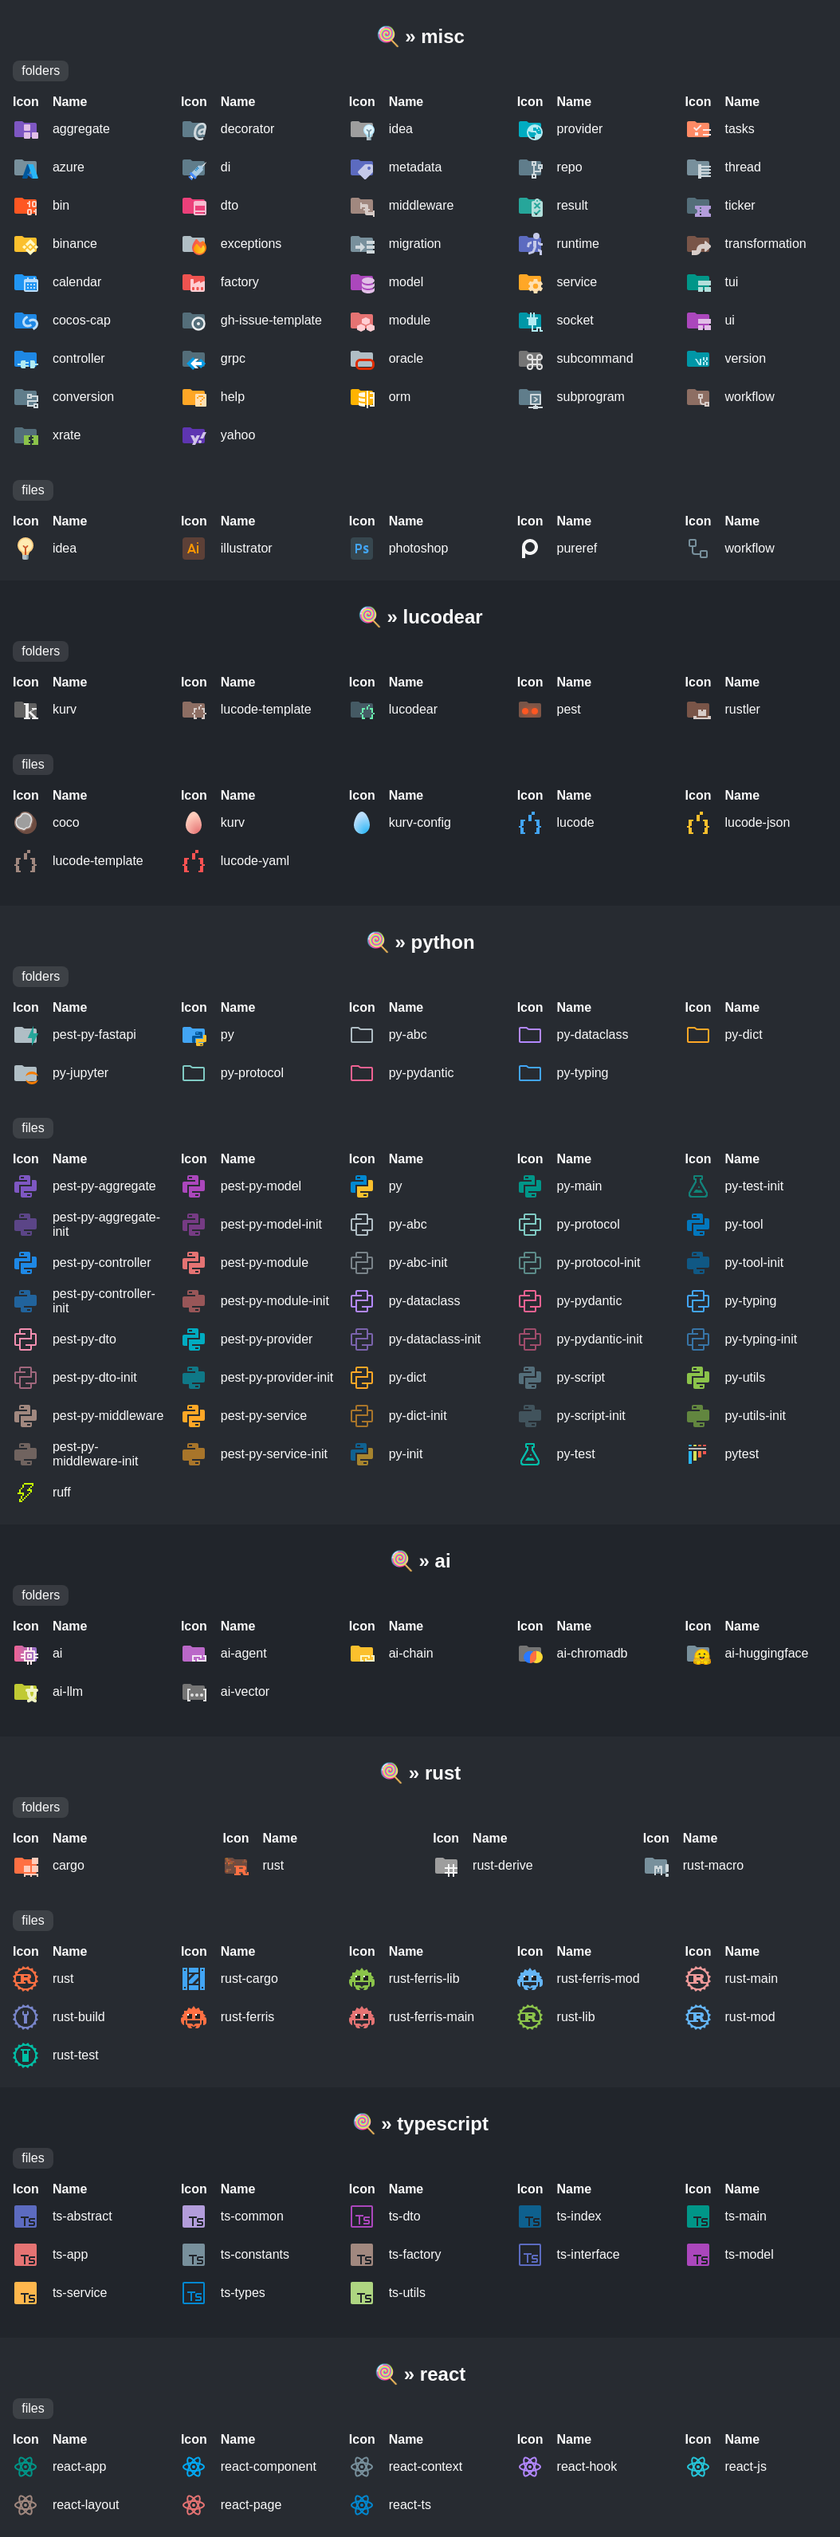
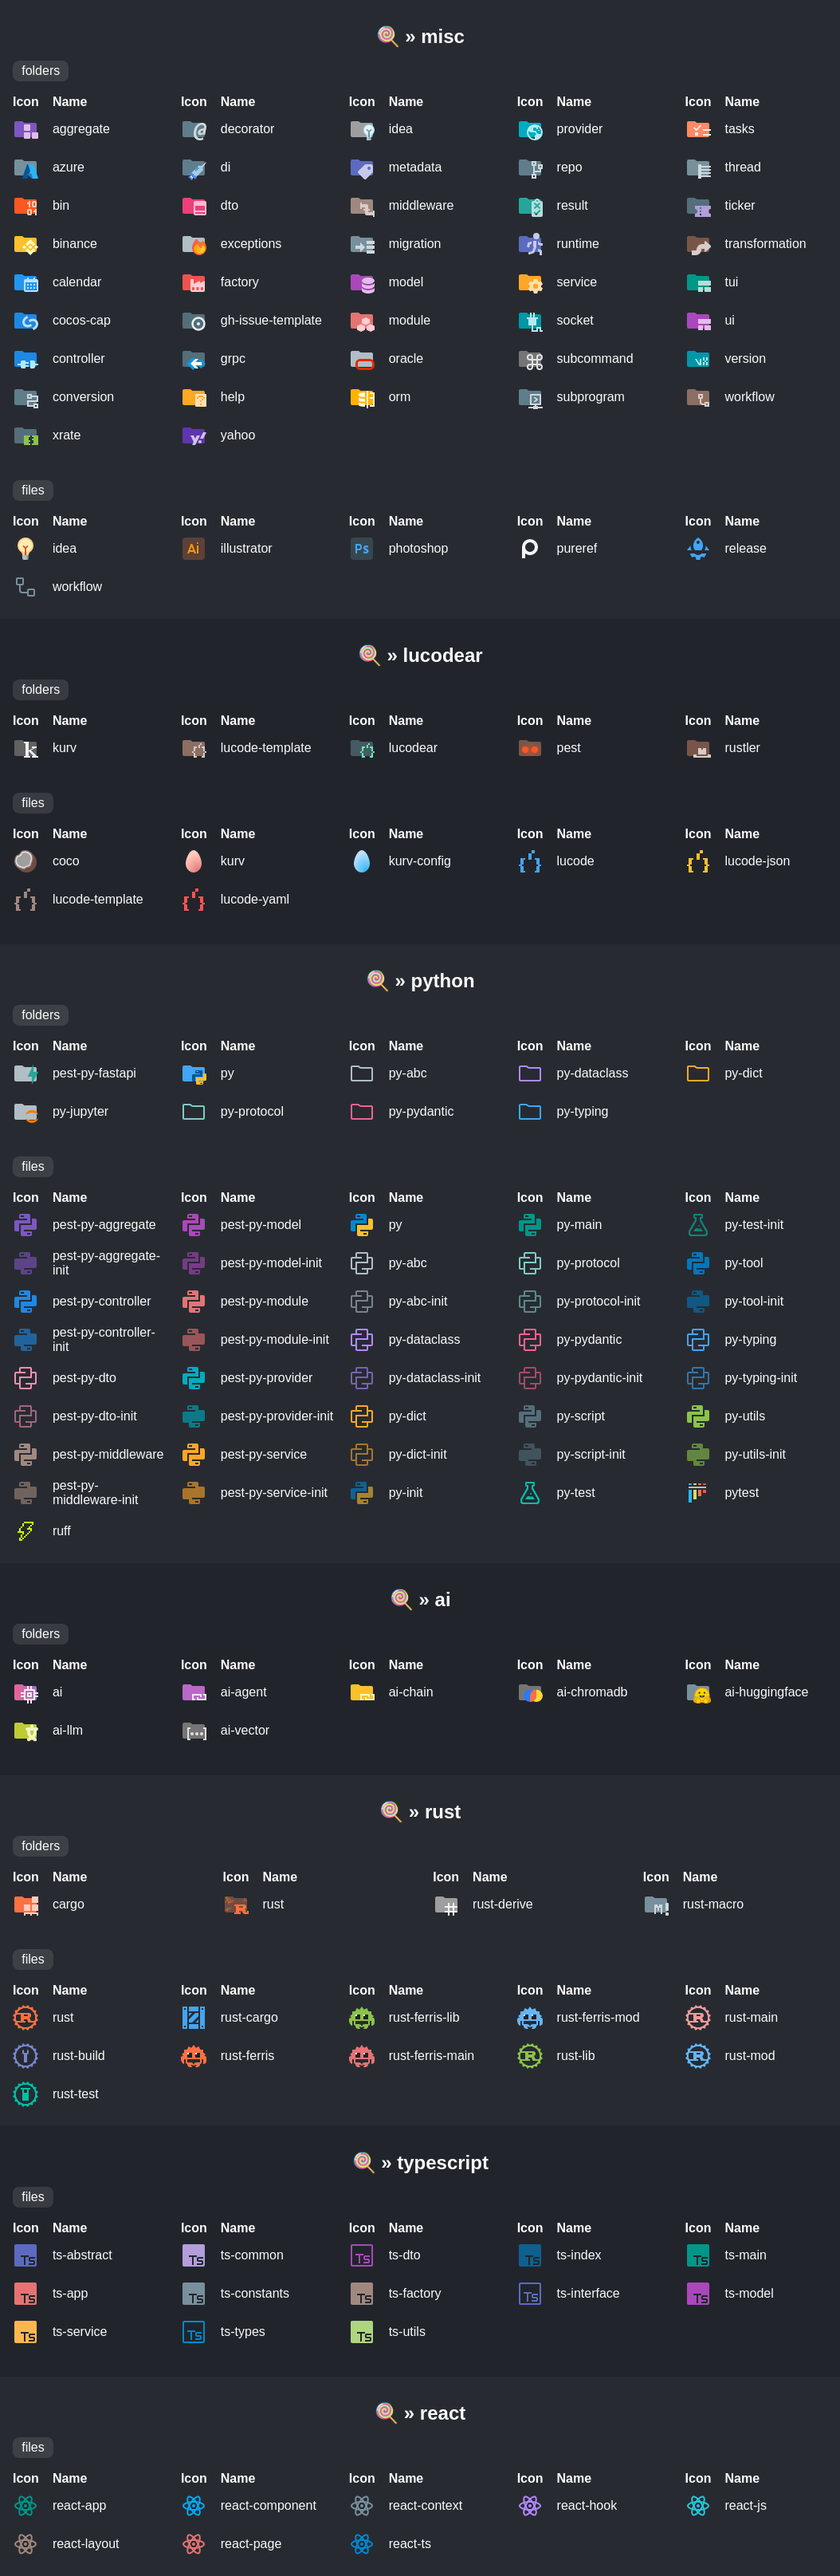
release: 🔖 v0.50.0

diff --git a/CHANGELOG.md b/CHANGELOG.md
@@ -3,10 +3,18 @@
  All notable changes to this project will be documented in this file. Dates are displayed in UTC.
 
  
+#### [v0.50.0](https://github.com/lucodear/lucodear-icons/compare/v0.49.0...v0.50.0) 
+
+> May 21, 2024 
+
+- feat: ✨ file icon release.toml [`0ff0aae4`](https://github.com/lucodear/lucodear-icons/commit/0ff0aae4)
+- feat: ⚙ Refactor pattern code structure [`#2326`](https://github.com/lucodear/lucodear-icons/pull/2326)
+ 
 #### [v0.49.0](https://github.com/lucodear/lucodear-icons/compare/v0.48.0...v0.49.0) 
 
 > May 19, 2024 
 
+- release: 🔖 v0.49.0 [`43d5e102`](https://github.com/lucodear/lucodear-icons/commit/43d5e102)
 - feat: ✨ xrates, tickers, issue_template icons [`269c152f`](https://github.com/lucodear/lucodear-icons/commit/269c152f)
 - fix: 🚑 prefixing already prefix icons [`0ec83f1d`](https://github.com/lucodear/lucodear-icons/commit/0ec83f1d)
 - fix: 🚑 broken image src link in preview generation [`156ded07`](https://github.com/lucodear/lucodear-icons/commit/156ded07)
